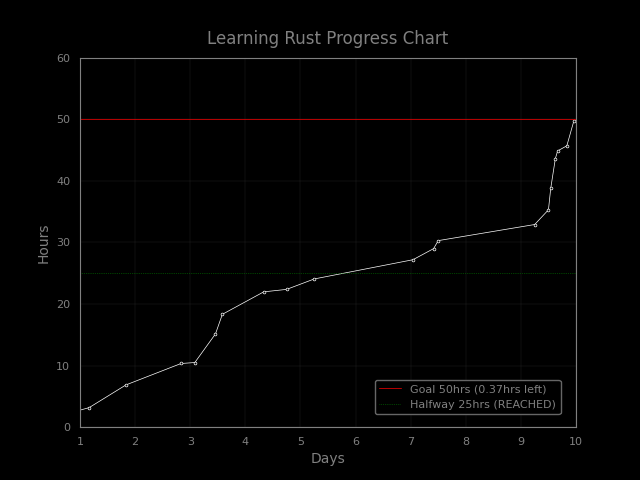
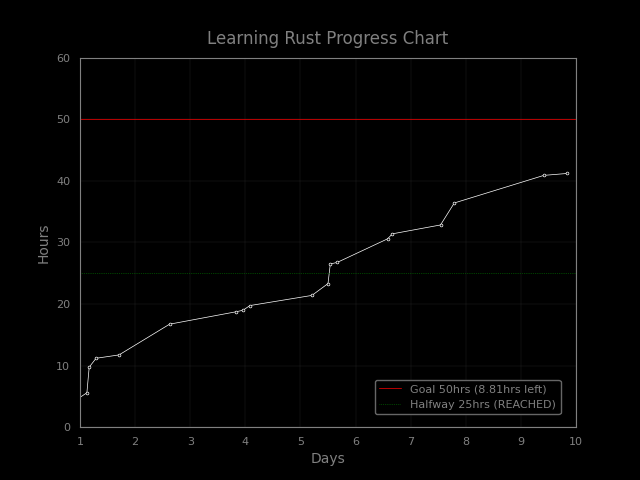
Respond to messages and send images

diff --git a/DiscordBot.py b/DiscordBot.py
@@ -1,1 +1,74 @@
-# create discord bot
+import os
+import random
+from logger import log
+import discord
+from Goal import Goal 
+
+
+def runBot():
+    # Enable intent.messages
+    intents = discord.Intents.all()
+    client = discord.Client(intents=intents)
+
+    discord.Intents.messages = True
+
+    @client.event
+    async def on_ready():
+        log.info(f'Logged in as {client.user}')
+
+    @client.event
+    async def on_message(message):
+        log.info(f'Message received from {message.author}: {message.content}')
+        # Don't respond to ourselves
+        if message.author == client.user:
+            return
+        
+        await sendMessage(message)
+    # import token from system environment
+    client.run(os.environ['AccountiBotToken'])
+
+
+async def sendMessage(message,is_private=False):
+    response = await respond(message)
+    if response != None:
+        if is_private:
+            await message.author.send(response)
+        else:
+            await message.channel.send(response)
+
+# send image
+async def sendImage(message):
+    await message.channel.send(file=discord.File('Media/plot.png'))
+
+async def respond(message):
+    # Parse the message
+    pm = message.content.split(' ')
+
+    if pm[0] == "!g":
+        if goalFormat(pm):
+            goal = Goal(int(pm[1]), float(pm[2]), pm[3], int(pm[4]))
+            return goal.getInitMessage()
+        else:
+            return "Invalid format. Use !g [goal duration] [hour goal] [goal title] [days off]"
+        
+    if pm[0] == "!gg":
+        await sendImage(message)
+
+
+    if pm[0] == "!gr":
+        return f'Ha, you rolled my secret dice: ({str(random.randint(1, 6))}, {str(random.randint(1, 6))})'
+    
+    if pm[0] == "!gh" or pm[0] == "!help" or pm[0] == "!h":
+        return open('help_message.txt', 'r').read()
+    
+    return None
+
+def goalFormat(pm):
+    print(pm)
+    if len(pm) != 5:
+        return False
+    
+    if not pm[1].isdigit() or not pm[2].isdigit() or not pm[4].isdigit():
+        return False
+    
+    return True

diff --git a/Goal.py b/Goal.py
@@ -32,7 +32,7 @@ class Goal:
             log.error(f'{entryDateStr} is outside of goal range: ({startDateStr}) - ({endDateStr})')
             return
         else:
-            log.info(f'Adding {hours} hours for day {dayInGoal} / {self.goalDuration}.')
+            log.info(f'Adding {hours} hours for day {dayInGoal} / {self.goalDuration} for {self.goalTitle}.')
             self.timeWorked.append((time, hours)) # This isn't necessary, but I want to keep track of all entries for now
             self.totalHoursWorked += hours
             # Determine if goal is complete
@@ -50,11 +50,11 @@ class Goal:
         If you need help regarding using this bot, type !gh
         """
 
-        message = f'Your goal, {self.goalTitle}, will last {self.goalDuration} days, and require {self.hourGoal} hours of recorded work.\n'
-        message += f'It begins now, and ends {self.endDate.strftime("%a %B %dth, %Y at %I:%M %p")}.\n'
-        message += f'This requires an average of {self.hoursPerDay}hrs of work / day with {self.daysOff} days off.\n'
-        message += f'If you fall behind in tracking, I\'ll get on you case. Good luck!\n'
-        message += f'If you need help regarding using this bot, type !gh'
+        message = f'Your goal, *{self.goalTitle}*, will last **{self.goalDuration} days, and require {self.hourGoal} hours of recorded work**.\n'
+        message += f'It begins now, and ends ***{self.endDate.strftime("%a %B %dth, %Y at %I:%M %p")}*** UTC.\n'
+        message += f'This requires an average of **{self.hoursPerDay}hrs of work / day** with {self.daysOff} days off.\n'
+        message += f'If you fall behind in tracking, *I\'ll get on you case. 💪* Good luck!\n'
+        message += f'\nIf you need help regarding using this bot, type !gh'
 
         return message
 

diff --git a/CustomFormatter.py b/CustomFormatter.py
@@ -7,7 +7,7 @@ class CustomFormatter(logging.Formatter):
     bold_red = "\x1b[31;1m"
     green = "\x1b[32;20m"
     reset = "\x1b[0m"
-    format = "%(levelname)s - %(message)s (%(filename)s:%(lineno)d)"
+    format = "%(levelname)s - %(message)s"
 
     FORMATS = {
         logging.DEBUG: green + format + reset,

diff --git a/main.py b/main.py
@@ -1,7 +1,7 @@
 from Goal import Goal
 import datetime
 import random 
-
+import DiscordBot as bot
 
 def testGoal():
 
@@ -22,4 +22,4 @@ def testGoal():
 
 
 if __name__ == '__main__':
-    testGoal()
+    bot.runBot()
